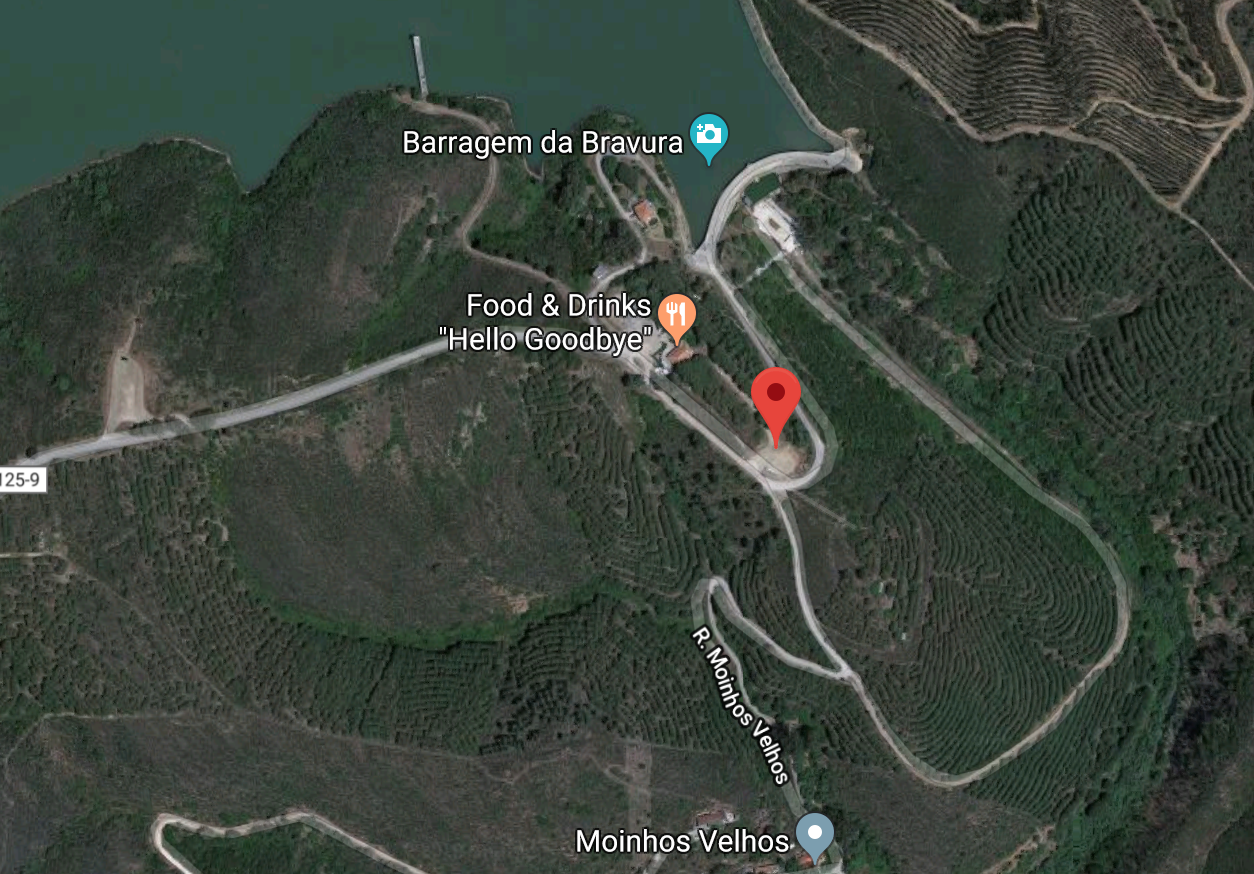
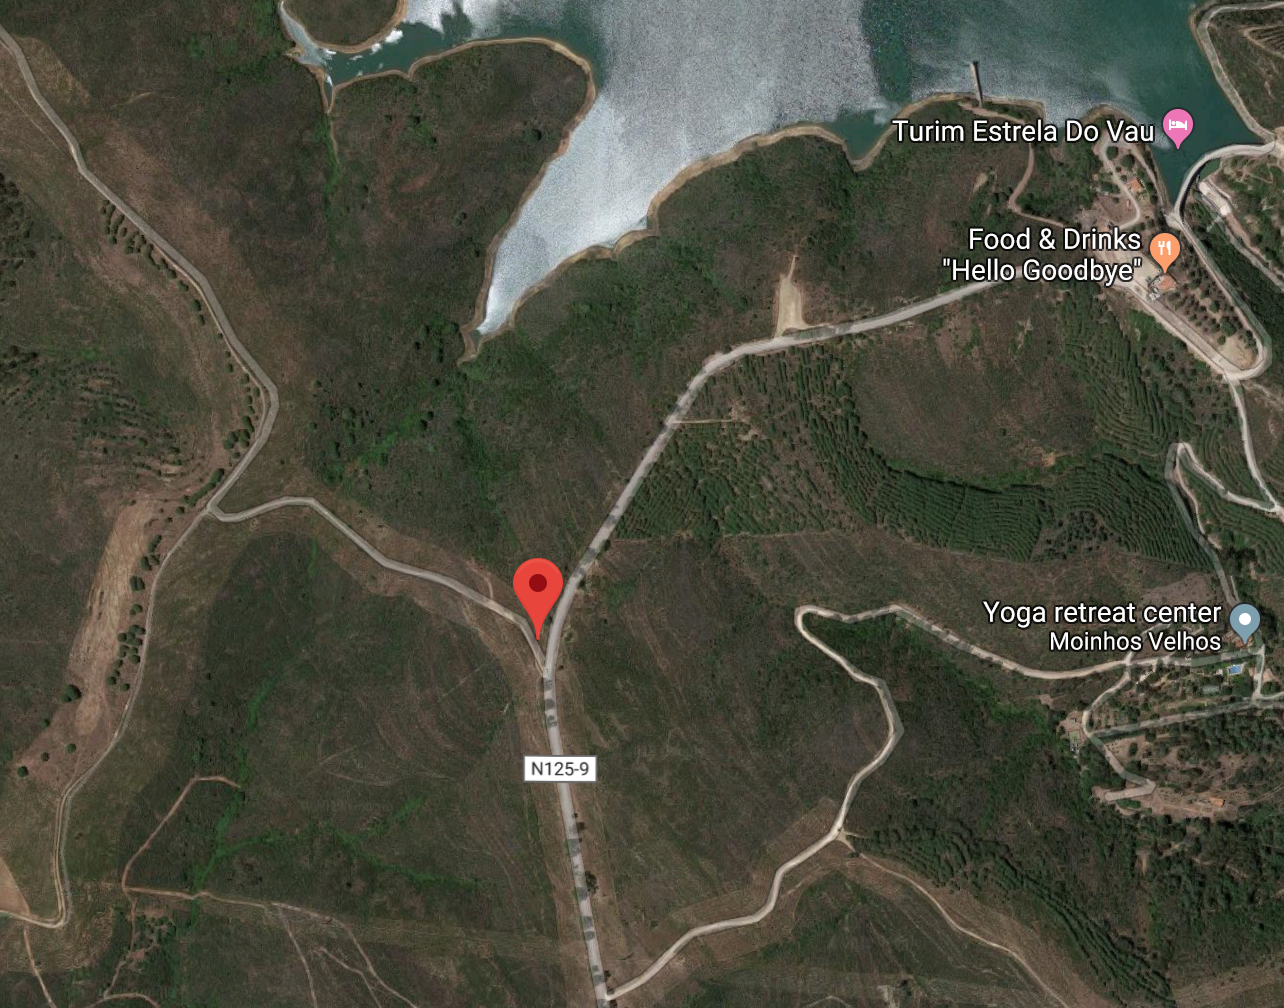
june dates, english version

diff --git a/content/agenda/bravura-05--08-06-2019.en.md b/content/agenda/bravura-05--08-06-2019.en.md
@@ -1,0 +1,38 @@
+---
+title: "Stargazing at Barragem do Bravura"
+date: 2019-06-05T21:30:00
+publishDate: 2019-05-28T11:32:14+01:00
+featured_image: "/images/blog/bravura_1.jpg"
+headerclass: "bg-black-20"
+expiryDate: 2019-06-09
+---
+## Barragem do Bravura, 5th of June until 8th of June
+
+At this dark spot close to the lake we will set up some telescopes and give you a guide through the constellations and interesting objects that can be found there.
+We'll show you planets, globular and open clusters, gas nebulas and will explain to you what they are and how they came to be.
+
+We will be ready for you every night from Wednesday 5th of June until Saturday 8th of June, provided the weather allows for it.
+
+<!--more-->
+
+
+__Location__: Barragem do Bravura\
+__Price__: &euro; 20 (adults) / &euro; 10 (children 8-12). Residents: 50% discount\
+__Start__: 21h30\
+__Duration__: 90 mins\
+__Reservation__: {{< email >}}, (+351) 924 222 149
+
+## How to get there:
+
+Leaving Lagos northwards in the direction of Bensafrim follow the road for about 4km until the sign "Cotifo" or "Barragem da Bravura".
+Enter that road and follow it until the village of Cotifo.
+At the end of the road (at the t-split) go to the left and follow the signs "Barragem" up the hills.
+After more 5 minutes you reach the top of a hill overlooking the lake, where the road goes to the left down to the lake. You can park your car at the beginning of the dirt road starting just ahead of the curve, about 20 meters further in you will find us.
+
+<a href="https://goo.gl/maps/CFEF24z9oXVvZeJq8" target="_blank">On Google maps</a>
+
+![overview](../../images/blog/bravura-large.png)
+
+
+
+![detailed map](../../images/blog/bravura-detail.png)

diff --git a/content/agenda/bravura-25--30-06-2019.en.md b/content/agenda/bravura-25--30-06-2019.en.md
@@ -1,0 +1,38 @@
+---
+title: "Stargazing at Barragem do Bravura"
+date: 2019-06-25T22:00:00
+publishDate: 2019-05-28T11:32:14+01:00
+featured_image: "/images/blog/bravura_3.jpg"
+headerclass: "bg-black-20"
+expiryDate: 2019-07-01
+---
+## Barragem do Bravura, 25th of June until 30th of June
+
+At this dark spot close to the lake we will set up some telescopes and give you a guide through the constellations and interesting objects that can be found there.
+We'll show you planets, globular and open clusters, gas nebulas and will explain to you what they are and how they came to be.
+
+We will be ready for you every night from Tuesday 25th of June until Sunday 30th of June, provided the weather allows for it.
+
+<!--more-->
+
+
+__Location__: Barragem do Bravura\
+__Price__: &euro; 20 (adults) / &euro; 10 (children 8-12). Residents: 50% discount\
+__Start__: 22h00\
+__Duration__: 90 mins\
+__Reservation__: {{< email >}}, (+351) 924 222 149
+
+## How to get there:
+
+Leaving Lagos northwards in the direction of Bensafrim follow the road for about 4km until the sign "Cotifo" or "Barragem da Bravura".
+Enter that road and follow it until the village of Cotifo.
+At the end of the road (at the t-split) go to the left and follow the signs "Barragem" up the hills.
+After more 5 minutes you reach the top of a hill overlooking the lake, where the road goes to the left down to the lake. You can park your car at the beginning of the dirt road starting just ahead of the curve, about 20 meters further in you will find us.
+
+<a href="https://goo.gl/maps/CFEF24z9oXVvZeJq8" target="_blank">On Google maps</a>
+
+![overview](../../images/blog/bravura-large.png)
+
+
+
+![detailed map](../../images/blog/bravura-detail.png)

diff --git a/content/agenda/bravura-21--23-06-2019.en.md b/content/agenda/bravura-21--23-06-2019.en.md
@@ -1,0 +1,38 @@
+---
+title: "Stargazing at Barragem do Bravura"
+date: 2019-06-21T22:00:00
+publishDate: 2019-05-28T11:32:14+01:00
+featured_image: "/images/blog/bravura_2.jpg"
+headerclass: "bg-black-20"
+expiryDate: 2019-06-24
+---
+## Barragem do Bravura, 21st of June until 23rd of June
+
+At this dark spot close to the lake we will set up some telescopes and give you a guide through the constellations and interesting objects that can be found there.
+We'll show you planets, globular and open clusters, gas nebulas and will explain to you what they are and how they came to be.
+
+We will be ready for you every night from Friday 21st until Sunday 23rd of June, provided the weather allows for it.
+
+<!--more-->
+
+
+__Location__: Barragem do Bravura\
+__Price__: &euro; 20 (adults) / &euro; 10 (children 8-12). Residents: 50% discount\
+__Start__: 22h00\
+__Duration__: 90 mins\
+__Reservation__: {{< email >}}, (+351) 924 222 149
+
+## How to get there:
+
+Leaving Lagos northwards in the direction of Bensafrim follow the road for about 4km until the sign "Cotifo" or "Barragem da Bravura".
+Enter that road and follow it until the village of Cotifo.
+At the end of the road (at the t-split) go to the left and follow the signs "Barragem" up the hills.
+After more 5 minutes you reach the top of a hill overlooking the lake, where the road goes to the left down to the lake. You can park your car at the beginning of the dirt road starting just ahead of the curve, about 20 meters further in you will find us.
+
+<a href="https://goo.gl/maps/CFEF24z9oXVvZeJq8" target="_blank">On Google maps</a>
+
+![overview](../../images/blog/bravura-large.png)
+
+
+
+![detailed map](../../images/blog/bravura-detail.png)

diff --git a/content/agenda/bravura-11--12-06-2019.en.md b/content/agenda/bravura-11--12-06-2019.en.md
@@ -1,0 +1,38 @@
+---
+title: "Stargazing at Barragem do Bravura"
+date: 2019-06-11T22:00:00
+publishDate: 2019-05-28T11:32:14+01:00
+featured_image: "/images/blog/bravura_4.jpg"
+headerclass: "bg-black-20"
+expiryDate: 2019-06-13
+---
+## Barragem do Bravura, 11th of June and 12th of June
+
+At this dark spot close to the lake we will set up some telescopes and give you a guide through the constellations and interesting objects that can be found there.
+We'll show you planets, globular and open clusters, gas nebulas and will explain to you what they are and how they came to be.
+
+We will be ready for you both nights, Tuesday 11th and Wednesday 12th of June, provided the weather allows for it.
+
+<!--more-->
+
+
+__Location__: Barragem do Bravura\
+__Price__: &euro; 20 (adults) / &euro; 10 (children 8-12). Residents: 50% discount\
+__Start__: 22h00\
+__Duration__: 90 mins\
+__Reservation__: {{< email >}}, (+351) 924 222 149
+
+## How to get there:
+
+Leaving Lagos northwards in the direction of Bensafrim follow the road for about 4km until the sign "Cotifo" or "Barragem da Bravura".
+Enter that road and follow it until the village of Cotifo.
+At the end of the road (at the t-split) go to the left and follow the signs "Barragem" up the hills.
+After more 5 minutes you reach the top of a hill overlooking the lake, where the road goes to the left down to the lake. You can park your car at the beginning of the dirt road starting just ahead of the curve, about 20 meters further in you will find us.
+
+<a href="https://goo.gl/maps/CFEF24z9oXVvZeJq8" target="_blank">On Google maps</a>
+
+![overview](../../images/blog/bravura-large.png)
+
+
+
+![detailed map](../../images/blog/bravura-detail.png)
